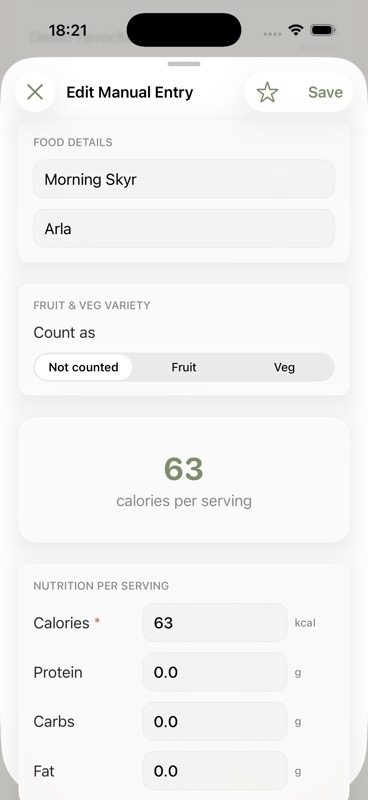
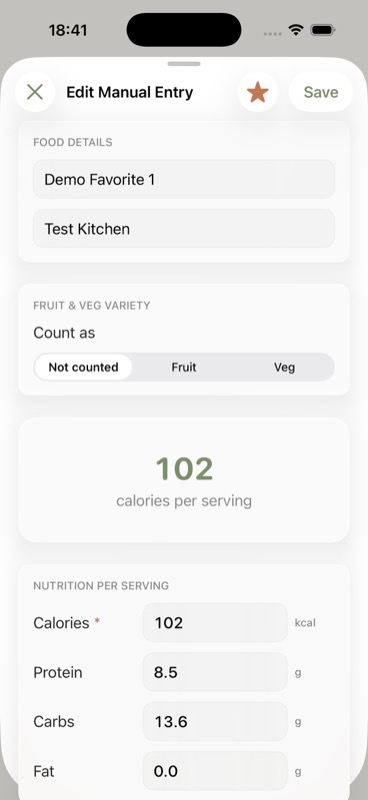
ui: separate favorite editor actions

diff --git a/Caloryn/Views/FoodLog/CustomFoodFormView.swift b/Caloryn/Views/FoodLog/CustomFoodFormView.swift
@@ -129,8 +129,8 @@ struct CustomFoodFormView: View {
                     }
                     .accessibilityLabel("Close")
                 }
-                ToolbarItemGroup(placement: .confirmationAction) {
-                    if let existingFood {
+                if let existingFood {
+                    ToolbarItem(placement: .topBarTrailing) {
                         Button {
                             toggleFavorite(existingFood)
                         } label: {
@@ -149,6 +149,12 @@ struct CustomFoodFormView: View {
                         )
                     }
 
+                    if #available(iOS 26.0, *) {
+                        ToolbarSpacer(.fixed, placement: .topBarTrailing)
+                    }
+                }
+
+                ToolbarItem(placement: .topBarTrailing) {
                     Button("Save") {
                         saveFood()
                     }

diff --git a/Caloryn/Views/FoodLog/RecipeFormView.swift b/Caloryn/Views/FoodLog/RecipeFormView.swift
@@ -86,8 +86,8 @@ struct RecipeFormView: View {
                     .accessibilityLabel("Close")
                 }
 
-                ToolbarItemGroup(placement: .confirmationAction) {
-                    if let existingRecipe {
+                if let existingRecipe {
+                    ToolbarItem(placement: .topBarTrailing) {
                         Button {
                             toggleFavorite(existingRecipe)
                         } label: {
@@ -106,6 +106,12 @@ struct RecipeFormView: View {
                         )
                     }
 
+                    if #available(iOS 26.0, *) {
+                        ToolbarSpacer(.fixed, placement: .topBarTrailing)
+                    }
+                }
+
+                ToolbarItem(placement: .topBarTrailing) {
                     Button("Save") {
                         saveRecipe()
                     }
